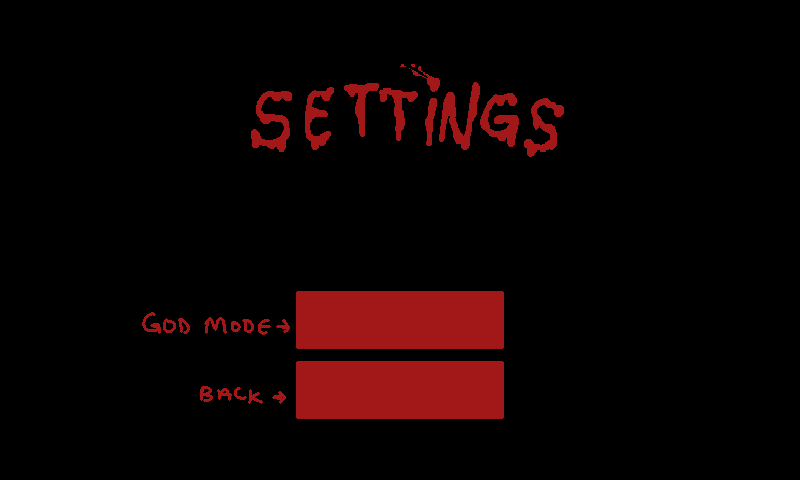
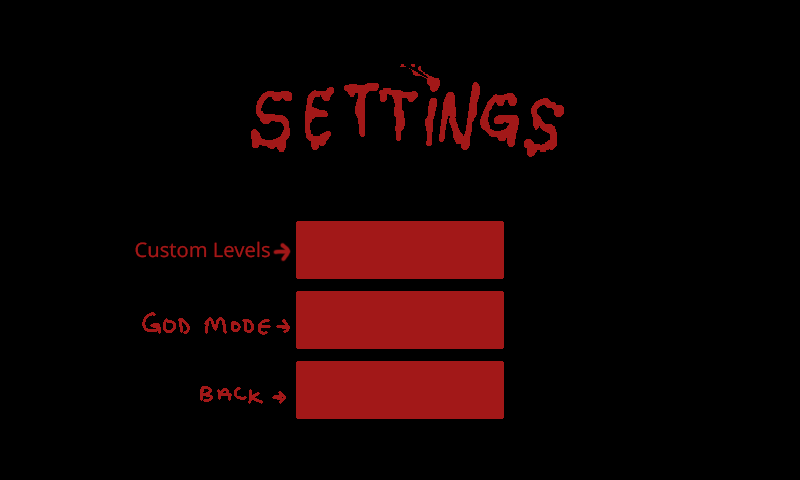
Added temp background + font/colors

Changed region(s): [[0.1562, 0.4375, 0.6562, 0.5938]]

diff --git a/Slorpus/Managers/UIManager.cs b/Slorpus/Managers/UIManager.cs
@@ -125,6 +125,7 @@ namespace Slorpus.Managers
                 Color.Black,
                 Color.Red,
                 60);
+            textBox.Renderer.Color = new Color(0.63529411764f, 0.09411764705f, 0.09411764705f);
             textBox.Active = false;
             KeyboardInput.Initialize(Game1, 100f, 60);
             //textBox.Area = new Rectangle(300, 295, 200, 50);
@@ -324,8 +325,6 @@ namespace Slorpus.Managers
                         button.Draw(sb);
                     }
 
-                    // draw godmode debug message
-                    sb.DrawString(Game1.TestingFont, $"GODMODE: {isGodModeOn}", new Vector2(0, 0), Color.Red);
                     break;
 
                 case GameState.Game:
@@ -349,9 +348,10 @@ namespace Slorpus.Managers
                     {
                         button.Draw(sb);
                     }
-                    // godmode debug
-                    sb.DrawString(Game1.TestingFont, $"GODMODE: {isGodModeOn}", new Vector2(0, 0), Color.Red);
-                    sb.DrawString(Game1.TestingFont, $"GODMODE: {isGodModeOn}", new Vector2(0, 0), Color.Red);
+                    if (isGodModeOn)
+                    {
+                        sb.DrawString(Game1.TestingFont, "GODMODE ENABLED", new Vector2(5, 0), Color.Red);
+                    }
                     break;
 
                 case GameState.CustomLevel:
@@ -380,11 +380,11 @@ namespace Slorpus.Managers
 
                     if (loadedCustom) 
                     {
-                        sb.DrawString(Game1.TestingFont, "Level loaded successfully!", new Vector2(0, 0), Color.Red);
+                        sb.DrawString(Game1.TestingFont, "Level loaded successfully!", new Vector2(5, 0), Color.Red);
                     }
                     else
                     {
-                        sb.DrawString(Game1.TestingFont, "No custom level loaded", new Vector2(0, 0), Color.Red);
+                        sb.DrawString(Game1.TestingFont, "No custom level loaded", new Vector2(5, 0), Color.Red);
                     }
                     break;
 
